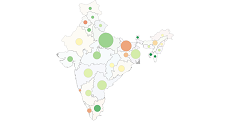
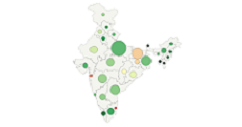
XML treemaps display status changed to false. Fixes #91

diff --git a/index.html b/index.html
@@ -167,12 +167,12 @@
 					<h3>Money Given vs Money Spent</h3>
 					<p>What is the contribution of the state, centre and people towards toilet construction?</p>
 				</a>				
-				<a class="demo thumbnail pull-left" href="#Money%20spent%7CXML%20-%202">
+				<!--<a class="demo thumbnail pull-left" href="#Money%20spent%7CXML%20-%202">
 					<h4 style="padding-left:5px">Money spent</h4>
 					<img src="img/XML_-_2.png?v=1">
 					<h3>XML - 2</h3>
 					<p>Need short description</p>
-				</a>			
+				</a>-->			
 				<a class="demo thumbnail pull-left" href="#Toilets%20built%7CEvaluation%20of%20toilets%20built%20for%20the%20rural%20poor">
 					<h4 style="padding-left:5px">Toilets built</h4>
 					<img src="img/evaluation_of_toilets_built_for_the_rural_poor.png?v=1">
@@ -190,18 +190,18 @@
 					<h3>Toilets coverage from census 2011</h3>
 					<p>What does the census 2011 say about toilet coverage in the country? See this to check if the census and NBA numbers matching?</p>
 				</a>-->				
-				<a class="demo thumbnail pull-left" href="#Toilets%20built%7CXML%20-%201%20-%20first">
+				<!--<a class="demo thumbnail pull-left" href="#Toilets%20built%7CXML%20-%201%20-%20first">
 					<h4 style="padding-left:5px">Toilets built</h4>
 					<img src="img/XML_-_1_-_first.png?v=1">
 					<h3>XML - 1 - First</h3>
 					<p>Need short description</p>
-				</a>
-				<a class="demo thumbnail pull-left" href="#Toilets%20built%7CXML%20-%201%20-%20second">
+				</a>-->
+				<!--<a class="demo thumbnail pull-left" href="#Toilets%20built%7CXML%20-%201%20-%20second">
 					<h4 style="padding-left:5px">Toilets built</h4>
 					<img src="img/XML_-_1_-_second.png?v=1">
 					<h3>XML - 1 - Second</h3>
 					<p>Need short description</p>
-				</a>
+				</a>-->
 				<a class="demo thumbnail pull-left" href="#Performance%7CComparing%20spending%20to%20toilet%20construction">
 					<h4 style="padding-left:5px">Performance</h4>
 					<img src="img/comparing_spending_to_toilet_construction.png?v=1">

diff --git a/stories.js b/stories.js
@@ -361,7 +361,7 @@ var stories = [
         'grad'   : 'gradient_legend',
 				'percent': [1, 37, 70, 95],
 				'pertext': [0, 50, 100, 200],
-				'IWP'    : 'true'
+				'IWP'    : 'false'
     }),
     treemap_story({
         'menu'   : 'Toilets built',
@@ -432,7 +432,7 @@ var stories = [
         'grad'   : 'gradient_legend',
 				'percent': [1, 37, 70, 95],
 				'pertext': [0, 50, 100, 200],
-				'IWP'    : 'true'
+				'IWP'    : 'false'
     }),
 		treemap_story({
         'menu'   : 'Toilets built',
@@ -448,7 +448,7 @@ var stories = [
         'grad'   : 'gradient_legend',
 				'percent': [1, 37, 70, 95],
 				'pertext': [0, 50, 100, 200],
-				'IWP'    : 'true'
+				'IWP'    : 'false'
     }),
     scatter_story({
         'menu'   : 'Performance',
